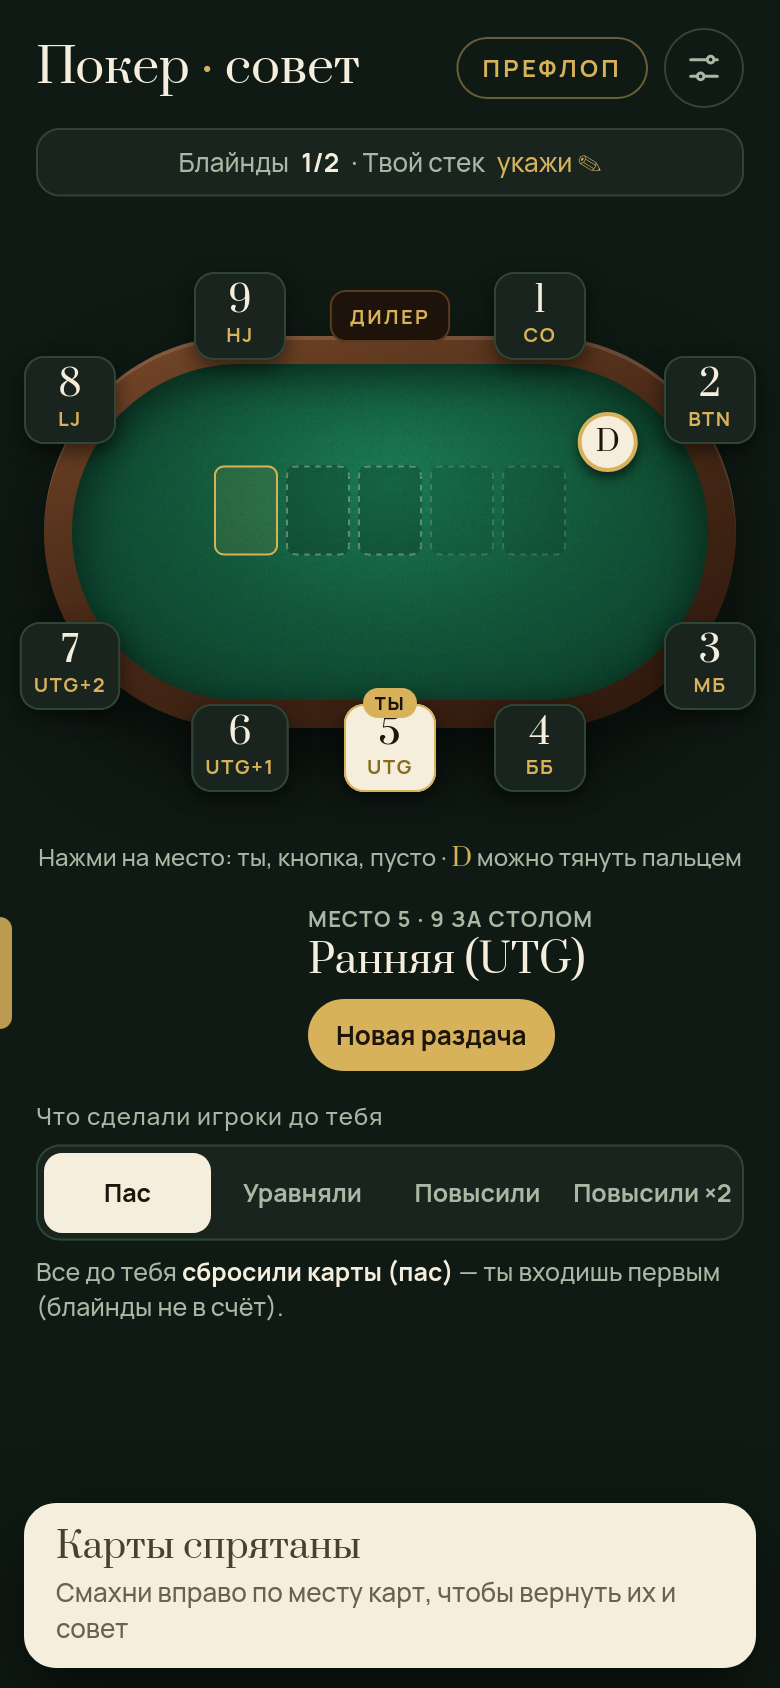
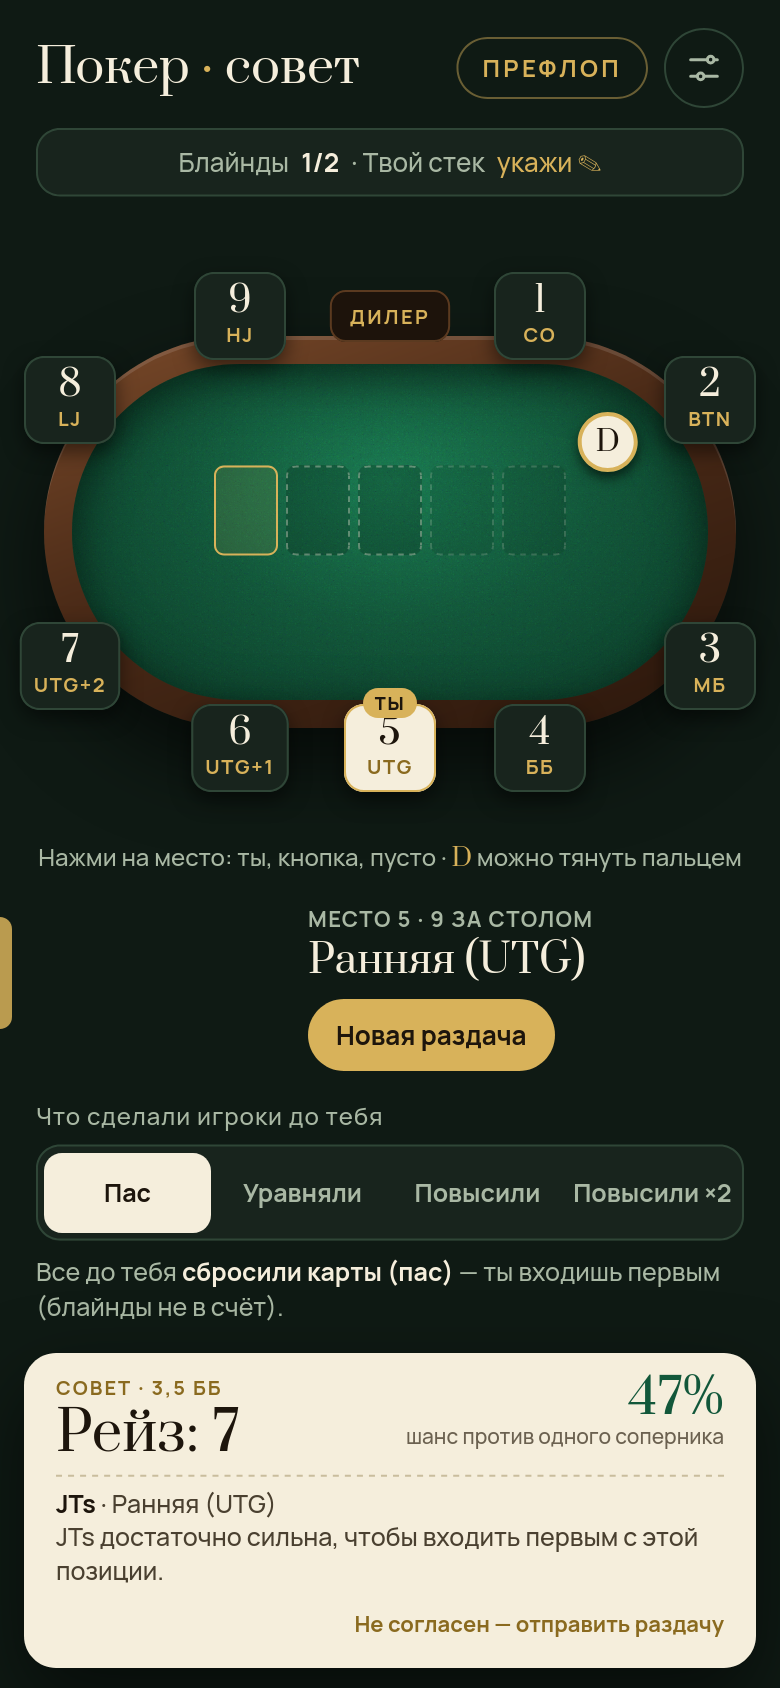
Карты спрятаны — совет остаётся на экране

Changed region(s): [[0.0308, 0.8009, 0.9846, 0.9858]]

diff --git a/app.js b/app.js
@@ -6,7 +6,7 @@ import { handClass } from './src/hands.js';
 import { GEOMETRY, DEALER_XY, SEAT_XY, SEAT_COUNT, activeSeats, seatPosition, nextActive } from './src/table.js';
 
 // Номер версии — поднимать при каждом обновлении вместе с CACHE в sw.js.
-const APP_VERSION = 16;
+const APP_VERSION = 17;
 const $ = (id) => document.getElementById(id);
 const RANK_LABEL = { 10: '10', 11: 'J', 12: 'Q', 13: 'K', 14: 'A' };
 const rankLabel = (r) => RANK_LABEL[r] || String(r);
@@ -428,11 +428,6 @@ const MAIL_SUBJECT = 'Покер — раздача для разбора';
 function renderTicket() {
   const ticket = $('ticket');
   const heroPos = seatPosition(state.occupied, state.button, state.hero);
-  if (state.hidden) {
-    ticket.classList.remove('busy');
-    ticket.innerHTML = `<div class="wait">Карты спрятаны<small>Смахни вправо по месту карт, чтобы вернуть их и совет</small></div>`;
-    return;
-  }
   if (state.hole.some((c) => c === null)) {
     ticket.innerHTML = `<div class="wait">Выбери свои две карты<small>Нажми на пустые карты слева внизу</small></div>`;
     return;
@@ -490,7 +485,6 @@ function renderTicket() {
     const { title, blinds, chips } = howMuch(advice, count === 0, heroPos);
     if (chips) lines.unshift(chips);
     ticket.classList.remove('busy');
-    if (state.hidden) return; // пока считали, карты успели спрятать
     ticket.innerHTML = `
       <div class="top-row">
         <div class="act ${advice.action === 'fold' ? 'fold' : ''}"><small>${advice.close ? 'Спорно — почти равно' : 'Совет'}${blinds ? ` · ${blinds}` : ''}</small>${title}</div>

diff --git a/sw.js b/sw.js
@@ -1,6 +1,6 @@
 // Офлайн-режим: сначала пробуем интернет (всегда свежая версия),
 // без связи — берём сохранённую копию из телефона.
-const CACHE = 'poker-v16';
+const CACHE = 'poker-v17';
 const FILES = [
   './', 'index.html', 'app.css', 'app.js', 'manifest.webmanifest',
   'src/cards.js', 'src/evaluator.js', 'src/equity.js', 'src/hands.js', 'src/handRanks.js',

diff --git a/CLAUDE.md b/CLAUDE.md
@@ -172,4 +172,4 @@
 - Строка «Его руки на этом столе: X % пара и лучше, Y % дро, Z % ничего» (как во Flopzilla), describeRangeHit.
 - Новых кнопок НЕ добавлять — владелец против.
 - Спрятать карты от соседей (2026-10-07, просьба владельца): смахнуть влево по своим картам — уезжают за
-  край (золотой язычок у края), совет тоже скрыт; вправо — возвращаются (enableHideSwipe в app.js). Без кнопок.
+  край (золотой язычок у края), совет ОСТАЁТСЯ (владелец так хочет); вправо — возвращаются. Без кнопок.
